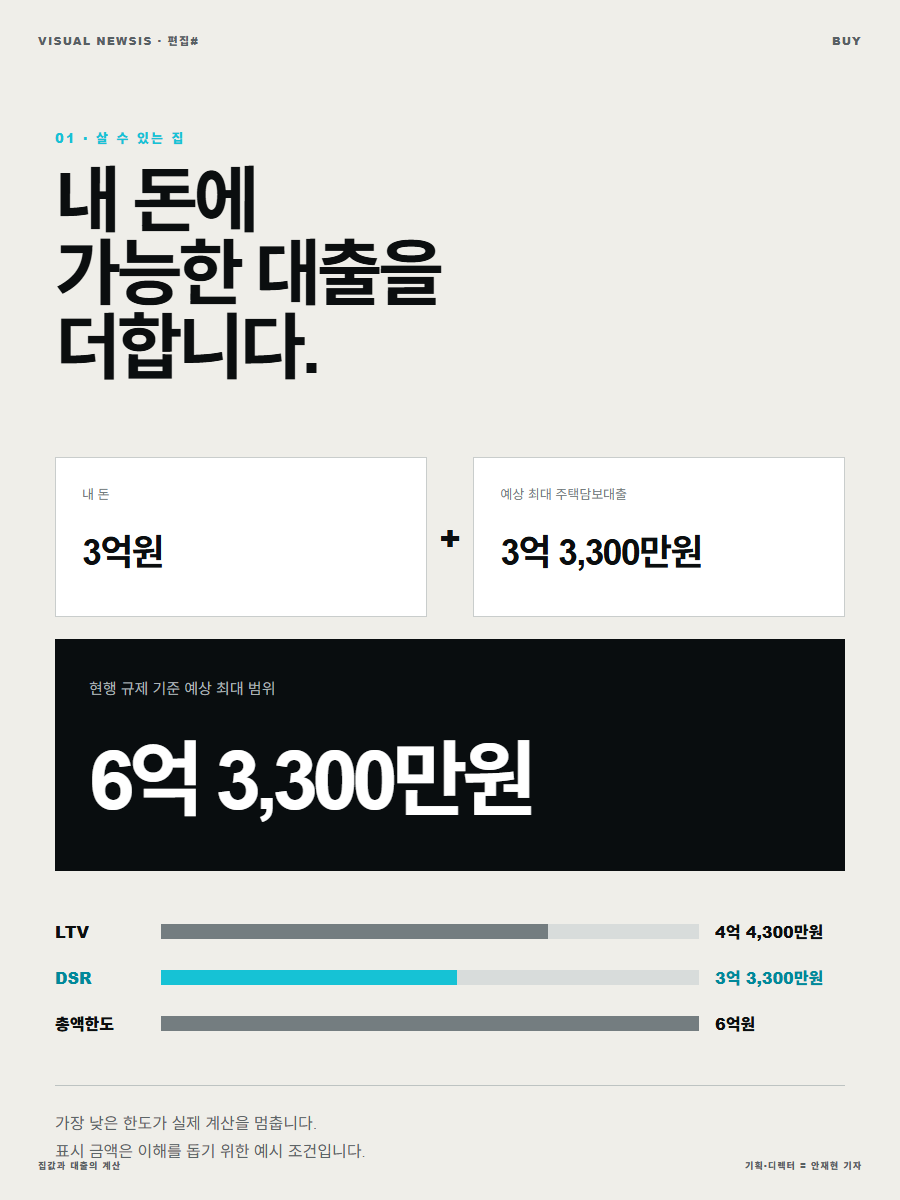
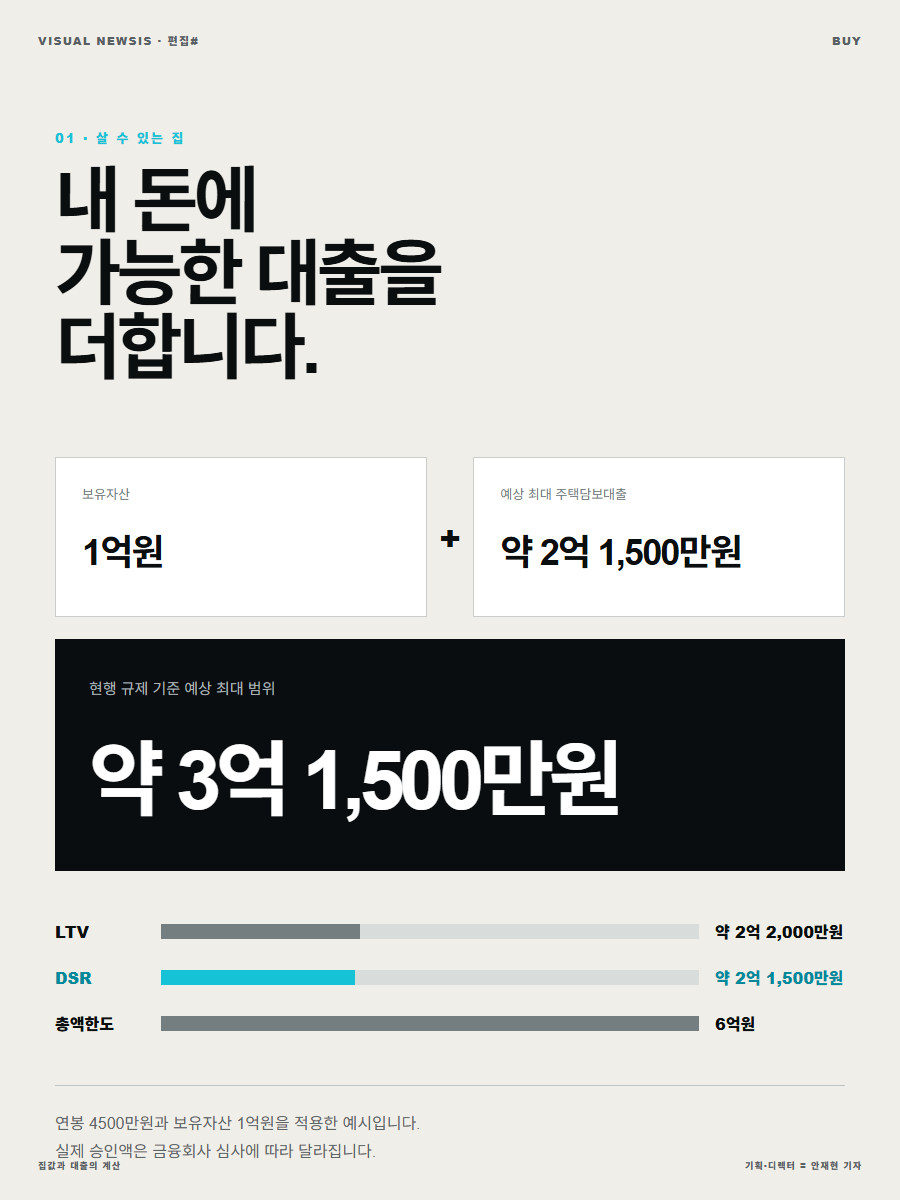
Revise BUY AND LIVE portal example

diff --git a/portal/buy-live/index.html b/portal/buy-live/index.html
@@ -15,9 +15,9 @@
 </head>
 <body>
   <section class="panel p1" data-panel="1"><img class="photo" src="../../buy-live/images/hero.jpg" alt=""><div class="shade"></div><div class="top"><span>VISUAL NEWSIS</span><span>편집# · INTERACTIVE STORY</span></div><div class="copy"><div class="series">[사는 문제] · <span>BUY AND LIVE</span></div><h1><span class="mint">이 집,</span><br>살 수 있겠습니까?</h1><p>집을 살 수 있는 돈과,<br>집을 사고 살아갈 돈은 다릅니다.</p></div><div class="foot"><span>사는 문제 · BUY AND LIVE</span><span>기획·디렉터 = 안재현 기자</span></div></section>
-  <section class="panel portrait p2" data-panel="2"><div class="top"><span>VISUAL NEWSIS · 편집#</span><span>BUY</span></div><div class="label">01 · 살 수 있는 집</div><h2>내 돈에<br>가능한 대출을<br>더합니다.</h2><div class="equation"><div class="grid"><div class="cell"><small>내 돈</small><strong>3억원</strong></div><div class="op">+</div><div class="cell"><small>예상 최대 주택담보대출</small><strong>3억 3,300만원</strong></div></div><div class="price"><small>현행 규제 기준 예상 최대 범위</small><strong>6억 3,300만원</strong></div></div><div class="bars"><div class="bar"><span>LTV</span><div class="track"><div class="fill" style="width:72%"></div></div><b>4억 4,300만원</b></div><div class="bar active"><span>DSR</span><div class="track"><div class="fill" style="width:55%"></div></div><b>3억 3,300만원</b></div><div class="bar"><span>총액한도</span><div class="track"><div class="fill" style="width:100%"></div></div><b>6억원</b></div></div><div class="note">가장 낮은 한도가 실제 계산을 멈춥니다.<br>표시 금액은 이해를 돕기 위한 예시 조건입니다.</div><div class="foot"><span>집값과 대출의 계산</span><span>기획·디렉터 = 안재현 기자</span></div></section>
+  <section class="panel portrait p2" data-panel="2"><div class="top"><span>VISUAL NEWSIS · 편집#</span><span>BUY</span></div><div class="label">01 · 살 수 있는 집</div><h2>내 돈에<br>가능한 대출을<br>더합니다.</h2><div class="equation"><div class="grid"><div class="cell"><small>보유자산</small><strong>1억원</strong></div><div class="op">+</div><div class="cell"><small>예상 최대 주택담보대출</small><strong>약 2억 1,500만원</strong></div></div><div class="price"><small>현행 규제 기준 예상 최대 범위</small><strong>약 3억 1,500만원</strong></div></div><div class="bars"><div class="bar"><span>LTV</span><div class="track"><div class="fill" style="width:37%"></div></div><b>약 2억 2,000만원</b></div><div class="bar active"><span>DSR</span><div class="track"><div class="fill" style="width:36%"></div></div><b>약 2억 1,500만원</b></div><div class="bar"><span>총액한도</span><div class="track"><div class="fill" style="width:100%"></div></div><b>6억원</b></div></div><div class="note">연봉 4500만원과 보유자산 1억원을 적용한 예시입니다.<br>실제 승인액은 금융회사 심사에 따라 달라집니다.</div><div class="foot"><span>집값과 대출의 계산</span><span>기획·디렉터 = 안재현 기자</span></div></section>
   <section class="panel portrait p3" data-panel="3"><img class="photo" src="../../buy-live/images/city1.jpg" alt=""><div class="shade"></div><div class="top"><span>VISUAL NEWSIS · 편집#</span><span>REGION</span></div><div class="copy"><div class="label">02 · 지역을 바꿔볼까요?</div><h2>조건 그대로,<br>지역만<br>바꿔보겠습니다.</h2><div class="selector">지방 비규제지역　⌄</div><div class="region-bars"><div class="region-line"><span>LTV</span><i style="--w:82%"></i></div><div class="region-line"><span>DSR</span><i style="--w:64%"></i></div><div class="region-line"><span>총액한도</span><i style="--w:100%"></i></div></div><p>지역에 따라 적용되는 규제와 대출 한도가 달라집니다.<br>같은 조건을 두고 지역만 바꿔 결과를 비교합니다.</p></div><div class="foot"><span>같은 조건, 다른 지역</span><span>기획·디렉터 = 안재현 기자</span></div></section>
-  <section class="panel portrait p4" data-panel="4"><img class="photo" src="../../buy-live/images/bank.jpg" alt=""><div class="shade"></div><div class="top"><span>VISUAL NEWSIS · 편집#</span><span>LIVE</span></div><div class="copy"><div class="label">03 · 사고 난 뒤의 생활</div><h2>집을 샀다고<br>계산은 끝나지<br>않습니다.</h2><div class="ledger"><div class="row"><span>월 실수령액</span><strong>470만원</strong></div><div class="row"><span>주택대출</span><strong>−169만원</strong></div><div class="row"><span>고정지출</span><strong>−130만원</strong></div><div class="row total"><span>남은 돈</span><strong>171만원</strong></div></div><div class="example">대출 3억 3,300만원 · 연 4.5% · 30년 원리금균등 상환 예시</div><div class="closing"><span>이렇게,</span>정말 살 수 있겠습니까?</div></div><div class="foot"><span>BUY AND LIVE</span><span>인터랙티브 기사에서 직접 확인하세요</span></div></section>
+  <section class="panel portrait p4" data-panel="4"><img class="photo" src="../../buy-live/images/bank.jpg" alt=""><div class="shade"></div><div class="top"><span>VISUAL NEWSIS · 편집#</span><span>LIVE</span></div><div class="copy"><div class="label">03 · 사고 난 뒤의 생활</div><h2>집을 샀다고<br>계산은 끝나지<br>않습니다.</h2><div class="ledger"><div class="row"><span>월 실수령액</span><strong>320만원</strong></div><div class="row"><span>주택대출</span><strong>−약 109만원</strong></div><div class="row"><span>생활비·고정지출</span><strong>−100만원</strong></div><div class="row total"><span>남은 돈</span><strong>약 111만원</strong></div></div><div class="example">연봉 4500만원 · 대출 약 2억1500만원 · 연 4.5% · 30년 원리금균등 상환 예시</div><div class="closing"><span>이렇게,</span>정말 살 수 있겠습니까?</div></div><div class="foot"><span>BUY AND LIVE</span><span>인터랙티브 기사에서 직접 확인하세요</span></div></section>
   <script>const panel=new URLSearchParams(location.search).get('panel')||'1';document.querySelector(`[data-panel="${panel}"]`).classList.add('active');</script>
 </body>
 </html>
